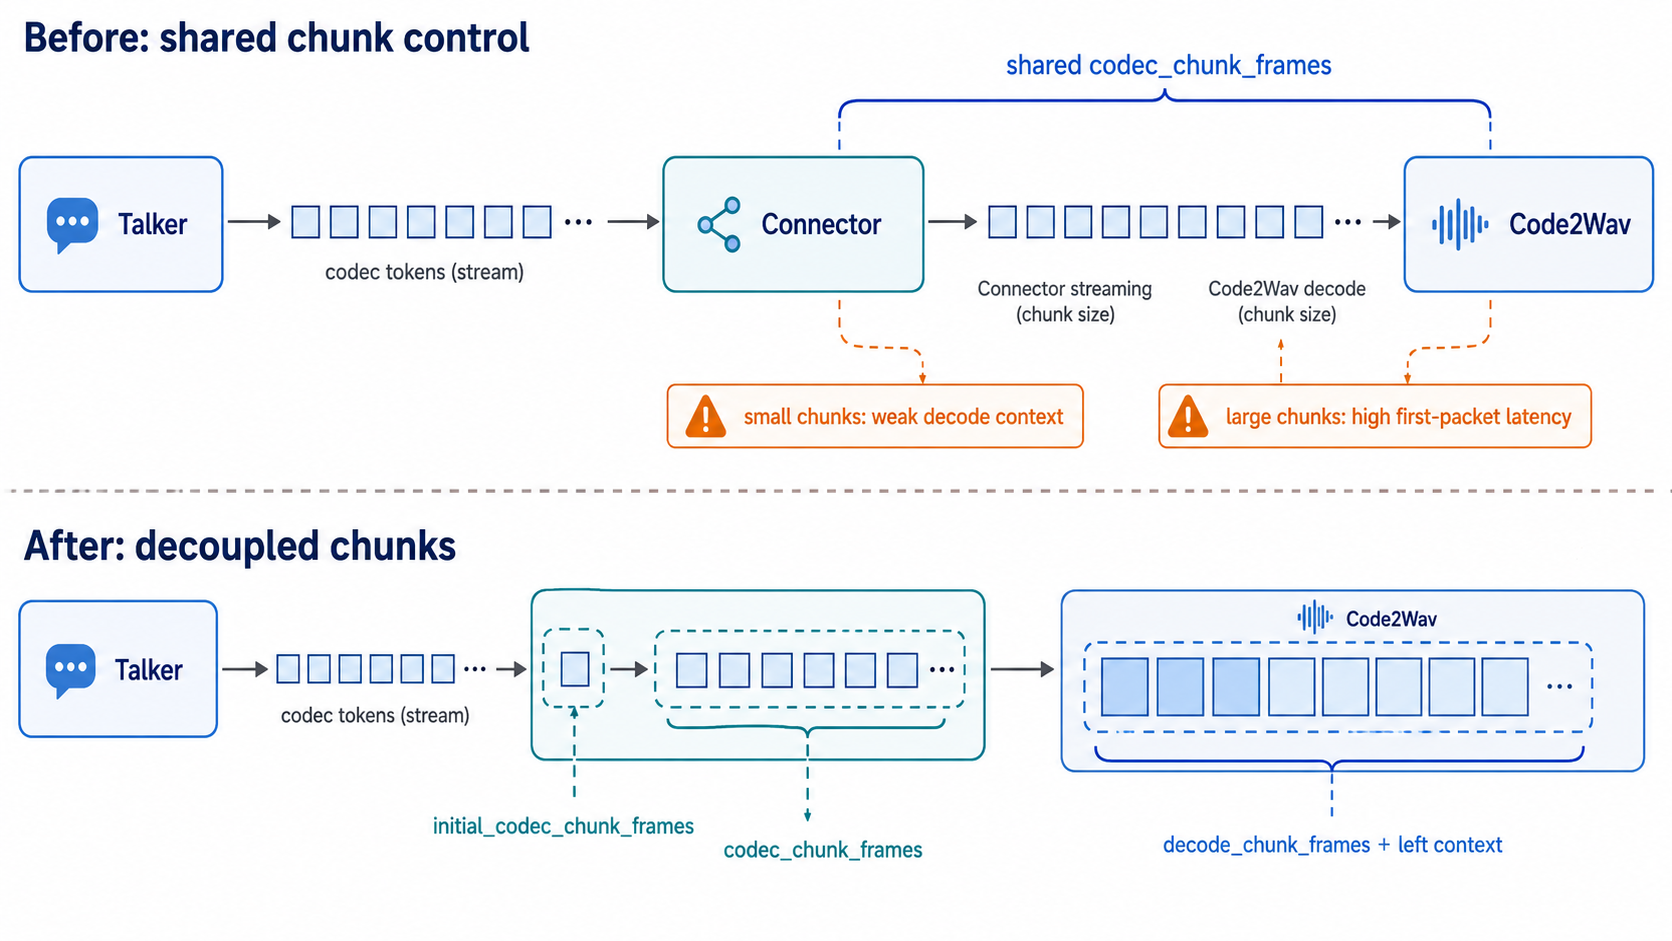
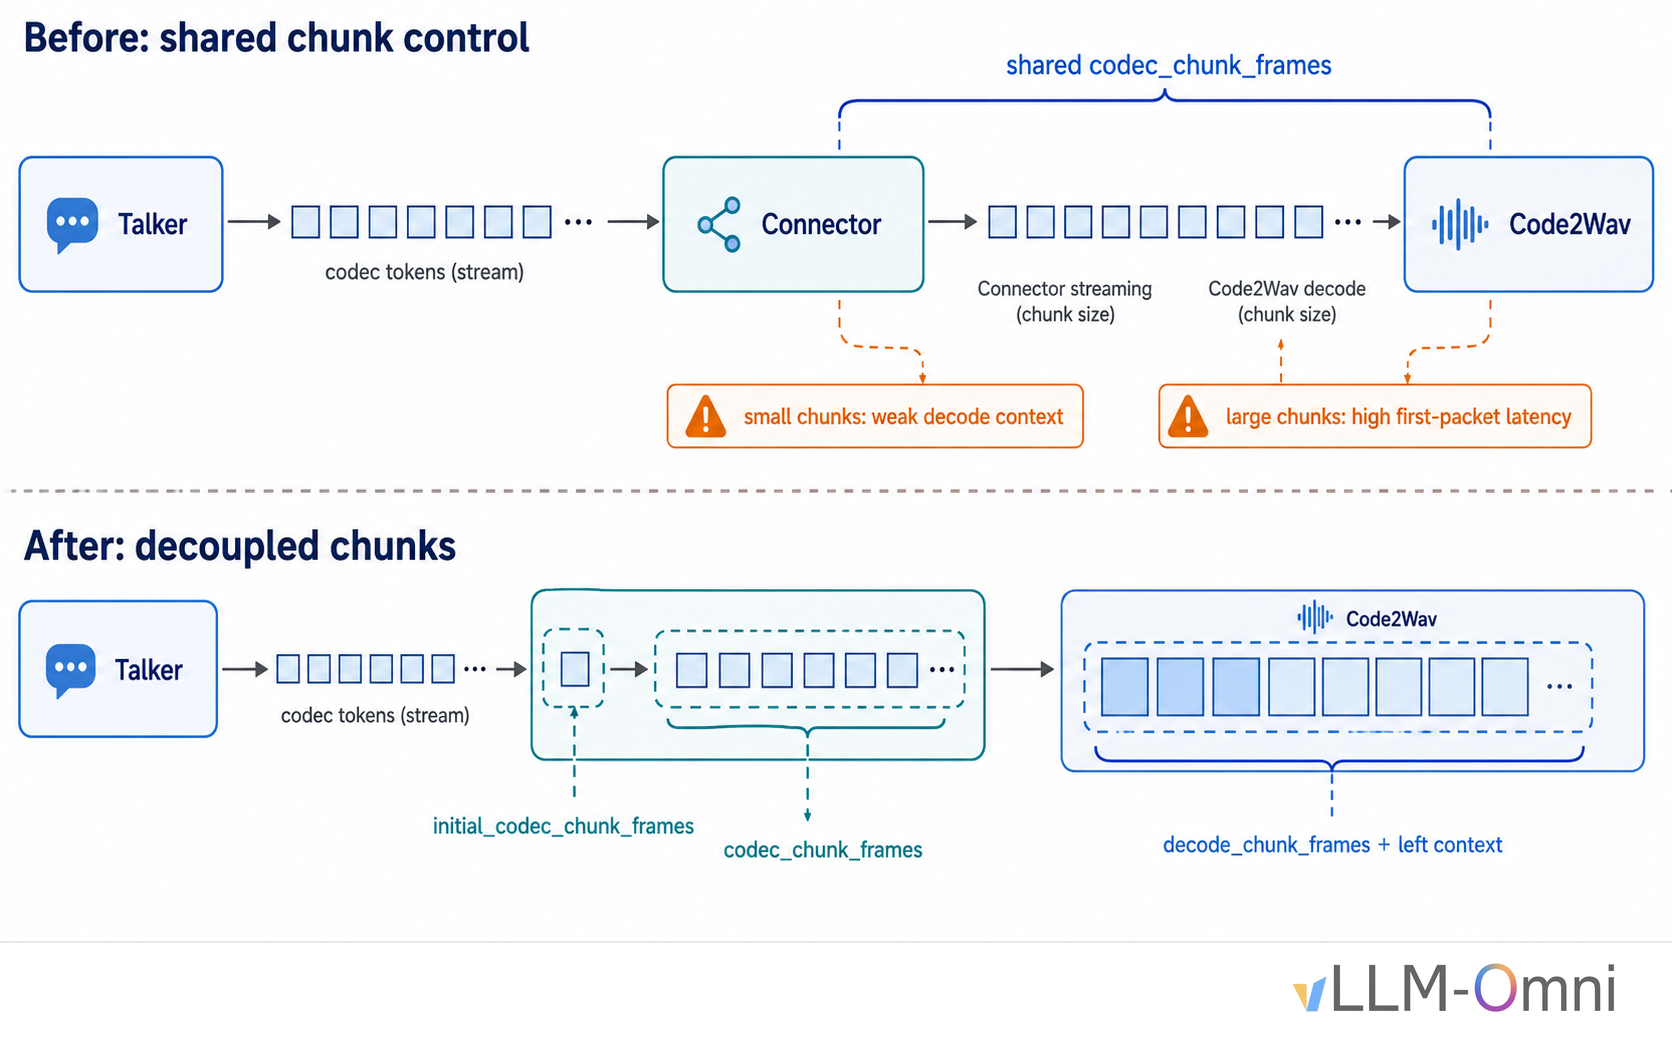
Add profiling figures to vLLM-Omni TTS blog

diff --git a/_posts/2026-06-23-vllm-omni-tts.md b/_posts/2026-06-23-vllm-omni-tts.md
@@ -24,7 +24,7 @@ TTS and text-only LLM inference both use autoregressive models, but the serving 
 
 **Throughput still matters.** In online serving, how much concurrency a single GPU can sustain, and how many seconds of audio it can generate per wall-clock second, directly determines deployment cost. TTS throughput optimization is more complex than LLM throughput optimization because Talker and Code2Wav have different bottlenecks, and the connector between them adds its own transfer cost. Improving throughput means balancing the two stages while removing the bottlenecks inside each one.
 
-![vLLM-Omni TTS serving pipeline](/assets/figures/vllm-omni-tts/tts-serving-pipeline.png)
+<img src="/assets/figures/vllm-omni-tts/tts-serving-pipeline.png" alt="vLLM-Omni TTS serving pipeline" width="100%">
 
 The rest of this post starts with an overview of the optimization techniques we used, then follows Qwen3-TTS as the main example of a full optimization path. We then use VoxCPM2, Higgs Audio V3, and Fish Speech S2 Pro to show why different TTS architectures require different serving strategies.
 
@@ -68,7 +68,7 @@ We decoupled the two responsibilities by introducing separate parameters:
 
 With this design, the connector can use a small chunk size to reduce first-packet latency, while Code2Wav keeps a 300-frame decode window plus 25 frames of left context to preserve cross-chunk quality. The two knobs can be tuned independently[^6].
 
-![Qwen3-TTS connector chunk decoupling](/assets/figures/vllm-omni-tts/qwen3-tts-connector-chunking.png)
+<img src="/assets/figures/vllm-omni-tts/qwen3-tts-connector-chunking.png" alt="Qwen3-TTS connector chunk decoupling" width="100%">
 
 ### 2. Throughput: Stage 0 Decode Preprocessing
 
@@ -83,6 +83,10 @@ The first concrete target was speaker embedding preparation. In Qwen3-TTS voice-
 The next target was `trailing_text`. During decode, the Talker maintains a `trailing_text` sliding window that caches embeddings for generated tokens. Each decode step appends the current token embedding and removes the oldest token. The original implementation used tensor slicing and concatenation, allocating a new tensor frequently. The optimized path tracks an offset and only compacts when the offset crosses a threshold or reaches the end of the buffer (`_TRAILING_TEXT_COMPACT_MIN_FRAMES = 64`). Intermediate decode steps index by offset without allocating a new tensor.
 
 Together with a batched `preprocess_decode_batch` path[^7], and later async D2H, runner hot-path, and connector optimizations, Qwen3-TTS audio throughput on H20 × 2 improved from 26.55 audio-s/s to 42.88 audio-s/s (+61.5%), while P99 E2EL dropped from 17.7s to 9.0s. Full numbers are listed in the performance section.
+
+<img src="/assets/figures/vllm-omni-tts/qwen3-tts-stage0-dispatch-consolidation.png" alt="Qwen3-TTS Stage 0 dispatch consolidation" width="100%">
+
+The trace window above shows the serving-path effect of batching Stage 0 preprocessing: fewer CPU launch calls and fewer small GPU kernel slices in the decode hot path, rather than a claim about higher GPU utilization.
 
 ### 3. Hot-Path Cleanup
 
@@ -128,7 +132,7 @@ MiniCPM4 (28 layers, PagedAttention) → FSQ → MiniCPM4 ResidualLM (8 layers) 
 
 LocDiT performs CFM, or Conditional Flow Matching, diffusion denoising, and AudioVAE reconstructs 48 kHz waveform audio. In vLLM-Omni, VoxCPM2 is not split into multiple runtime stages. Instead, it runs as a single-stage AR TTS pipeline: MiniCPM4, FSQ, ResidualLM, LocDiT, and AudioVAE all execute inside one model instance, and the model directly emits audio. This avoids latent transfer between stages and makes cross-request batching easier for the decode-tail CFM/LocDiT and VAE paths.
 
-![VoxCPM2 single-stage hybrid pipeline](/assets/figures/vllm-omni-tts/voxcpm2-single-stage-pipeline.png)
+<img src="/assets/figures/vllm-omni-tts/voxcpm2-single-stage-pipeline.png" alt="VoxCPM2 single-stage hybrid pipeline" width="100%">
 
 Unlike Qwen3-TTS, which is a two-stage Talker-to-Code2Wav pipeline, VoxCPM2 optimization focuses on two questions: how to make the 28-layer MiniCPM4 faster, and how to stop CFM/LocDiT from underusing the GPU at high concurrency.
 
@@ -141,6 +145,10 @@ The first attempt compiled each layer's `mlp` and `o_proj` separately: 28 layers
 We then wrapped the entire `Model.forward` in `torch.compile` with `fullgraph=False`[^4]. This lets Dynamo see the full 28-layer loop. PagedAttention still causes graph breaks, but Dynamo only needs to memoize a small number of subgraphs. Per-step dispatch drops from many small regions to a few larger regions. RTF dropped from roughly 0.21 to roughly 0.13, making this the largest single optimization for VoxCPM2.
 
 To quantify this, we profiled three configurations: eager, per-layer compile, and whole/unified graph. Per-layer compile reduced part of the kernel count and kernel time, but launch count did not drop. Whole/unified graph was the key step: `cudaLaunchKernel` count dropped by about 71%, kernel events by about 30%, and kernel time by about 27%. Single-request E2E dropped by about 2.6% for per-layer compile and about 6.5% for whole graph.
+
+<img src="/assets/figures/vllm-omni-tts/voxcpm2-compile-dispatch-combined.png" alt="VoxCPM2 compile dispatch timeline and counters" width="100%">
+
+The timeline keeps the profiler view as the main surface, while the embedded full-trace counters show why per-layer compile was not enough: launch count stayed flat until the whole-forward compile path reduced Python-to-compiled boundaries.
 
 We also tried `mode="reduce-overhead"`, which enables automatic CUDA Graph capture. It conflicted with PagedAttention's stateful KV cache. During graph capture, `slot_mapping` becomes fixed; replay can then write attention results to the wrong KV cache location, causing incorrect stop logits and early truncation.
 
@@ -207,6 +215,10 @@ We implemented a Fish-specific Triton kernel for SlowAR decode attention. It doe
 The kernel has two paths. Short sequences up to 1024 tokens use standard online softmax in one pass. The grid is `(batch_size, num_kv_heads)`, and each program handles one batch row and one KV head across its Q heads. Block size is hard-coded to 16, matching vLLM's KV cache block size, so block table lookup is a direct `tl.load` without extra gather logic. Long sequences use a split-partial-combine path: split the sequence into segments, compute partial m/l/acc independently, then merge them using the online softmax recurrence. This keeps reference-audio long-context requests on the fast path.
 
 Dispatch has one subtle detail. The kernel needs sequence length to choose the short or long path, but the exact sequence length lives on GPU. Reading it to CPU would synchronize. Instead, the runner computes a CPU-side `seq_lens_cpu_upper_bound` from computed tokens plus scheduled tokens. The upper bound is always at least the true sequence length. The short path does not under-read, and the long split path does not under-cover. During CUDA Graph capture, the upper bound is set to `max_model_len`, so all graph paths remain covered.
+
+<img src="/assets/figures/vllm-omni-tts/fish-speech-stage0-runtime-shape.png" alt="Fish Speech Stage 0 runtime shape before and after q_len=1 fast path" width="100%">
+
+The trace is a local runtime-shape view of the Fish path before and after the q_len=1 attention specialization. It is meant to complement the kernel design discussion rather than replace the benchmark numbers.
 
 The fast path only applies to Fish SlowAR attention layers. At model load time, we walk `model.layers` and replace each attention layer's `impl.forward` with a wrapper that dispatches to the Fish fast path when the constraints match. Prefill requests, non-Fish models, and unsupported decode shapes use the original attention implementation.
 